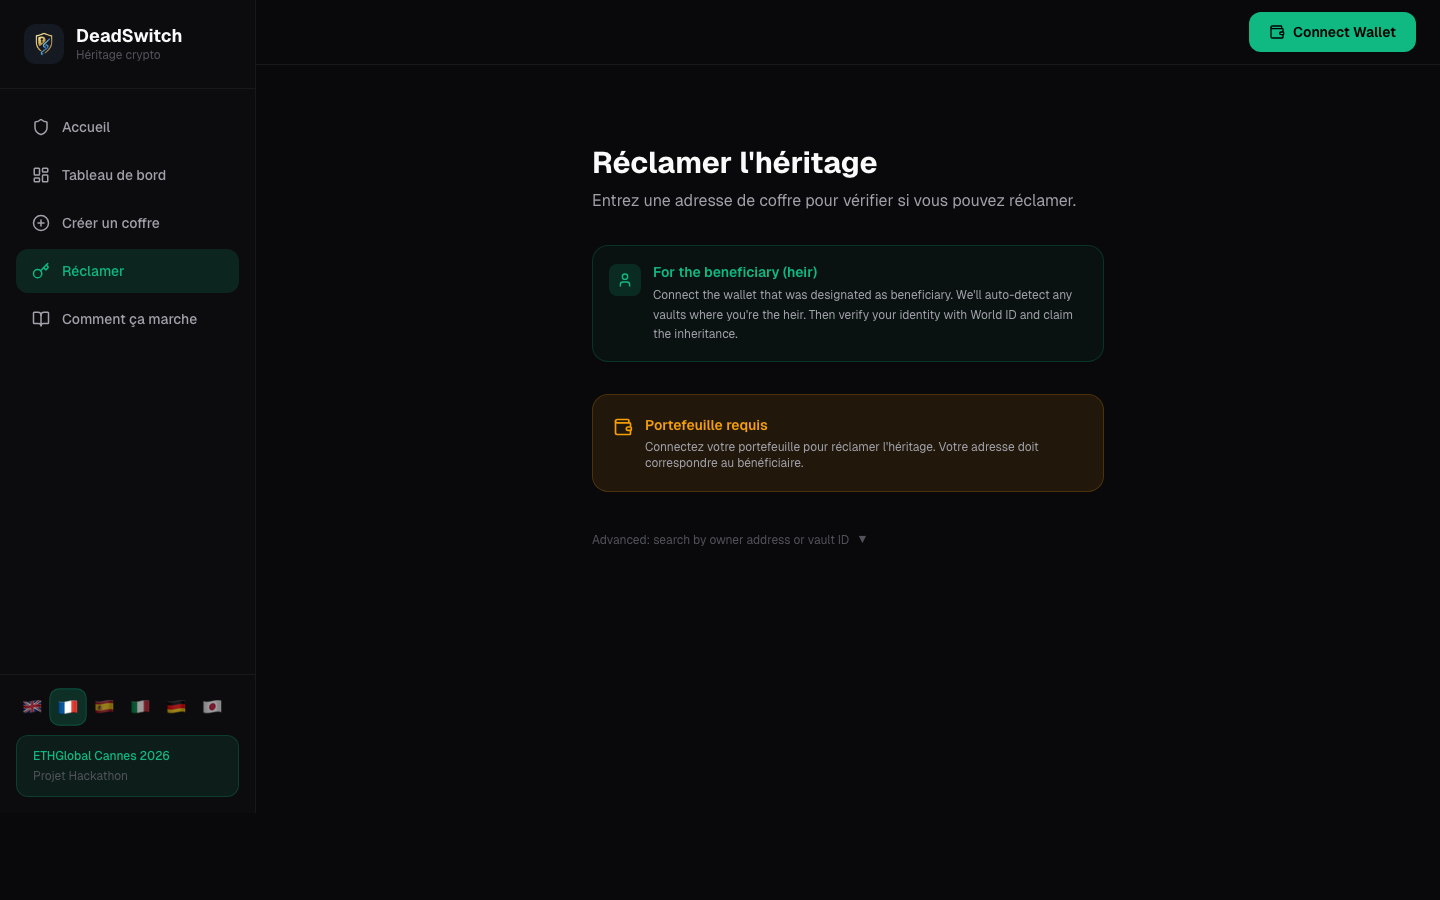
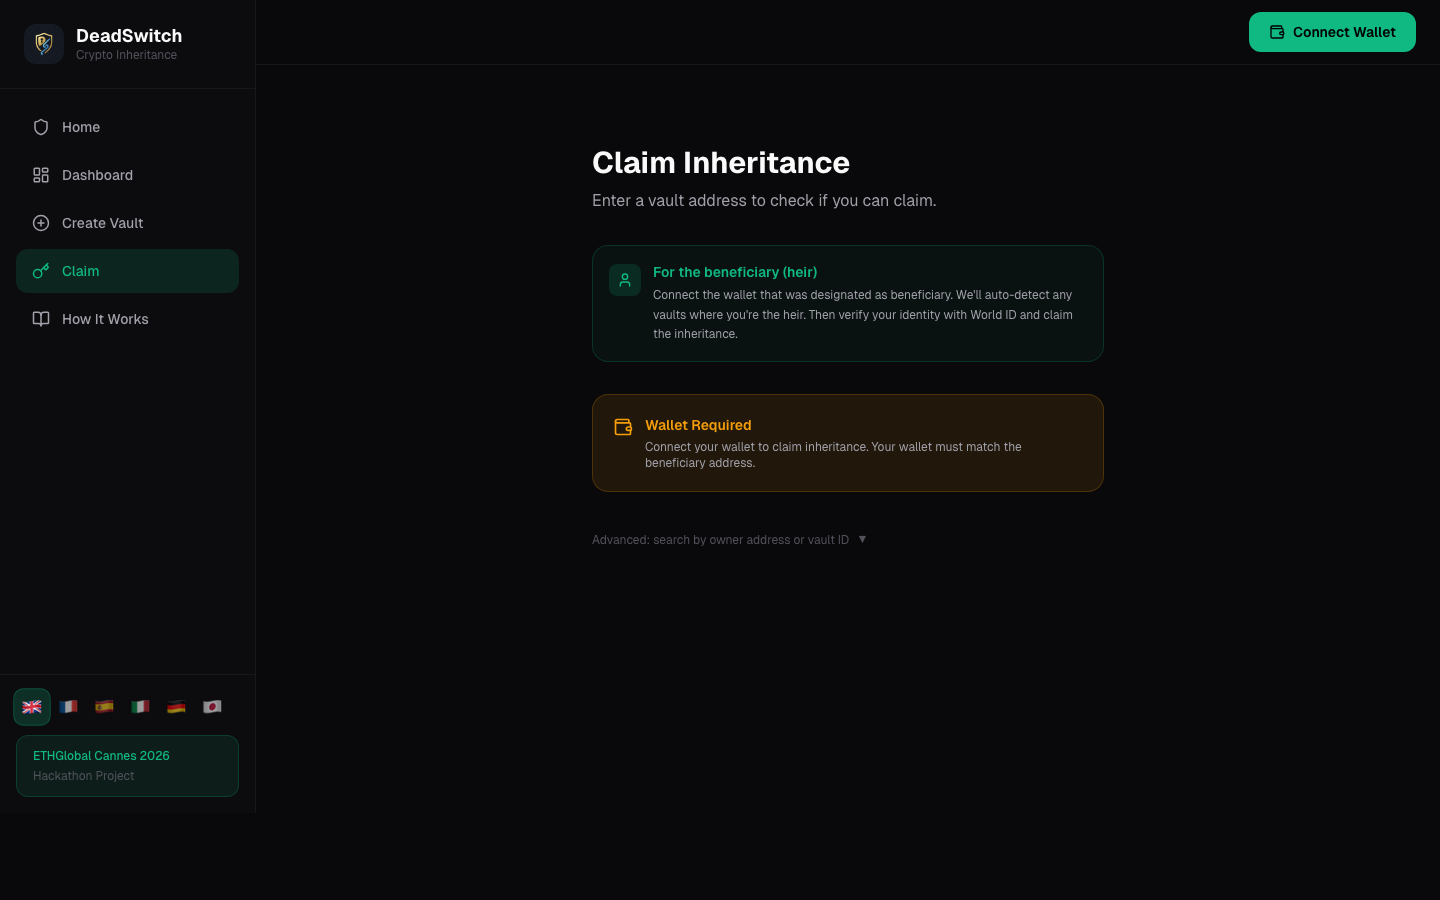
i18n: support ?lang=X URL parameter override
Added URL query parameter support for language override (checked before
localStorage and browser language). Useful for:
- Taking screenshots in specific languages
- Sharing language-specific links
- Testing translations without clearing localStorage

Also regenerated all 6 hackathon screenshots in English using ?lang=en.

diff --git a/frontend/src/lib/i18n.tsx b/frontend/src/lib/i18n.tsx
@@ -876,6 +876,13 @@ export function I18nProvider({ children }: { children: ReactNode }) {
   const [lang, setLangState] = useState<LangCode>('en');
 
   useEffect(() => {
+    // URL parameter override (for screenshots, testing, linking)
+    const urlParams = new URLSearchParams(window.location.search);
+    const urlLang = urlParams.get('lang');
+    if (urlLang && urlLang in translations) {
+      setLangState(urlLang as LangCode);
+      return;
+    }
     const stored = localStorage.getItem('deadswitch-lang');
     if (stored && stored in translations) {
       setLangState(stored as LangCode);
